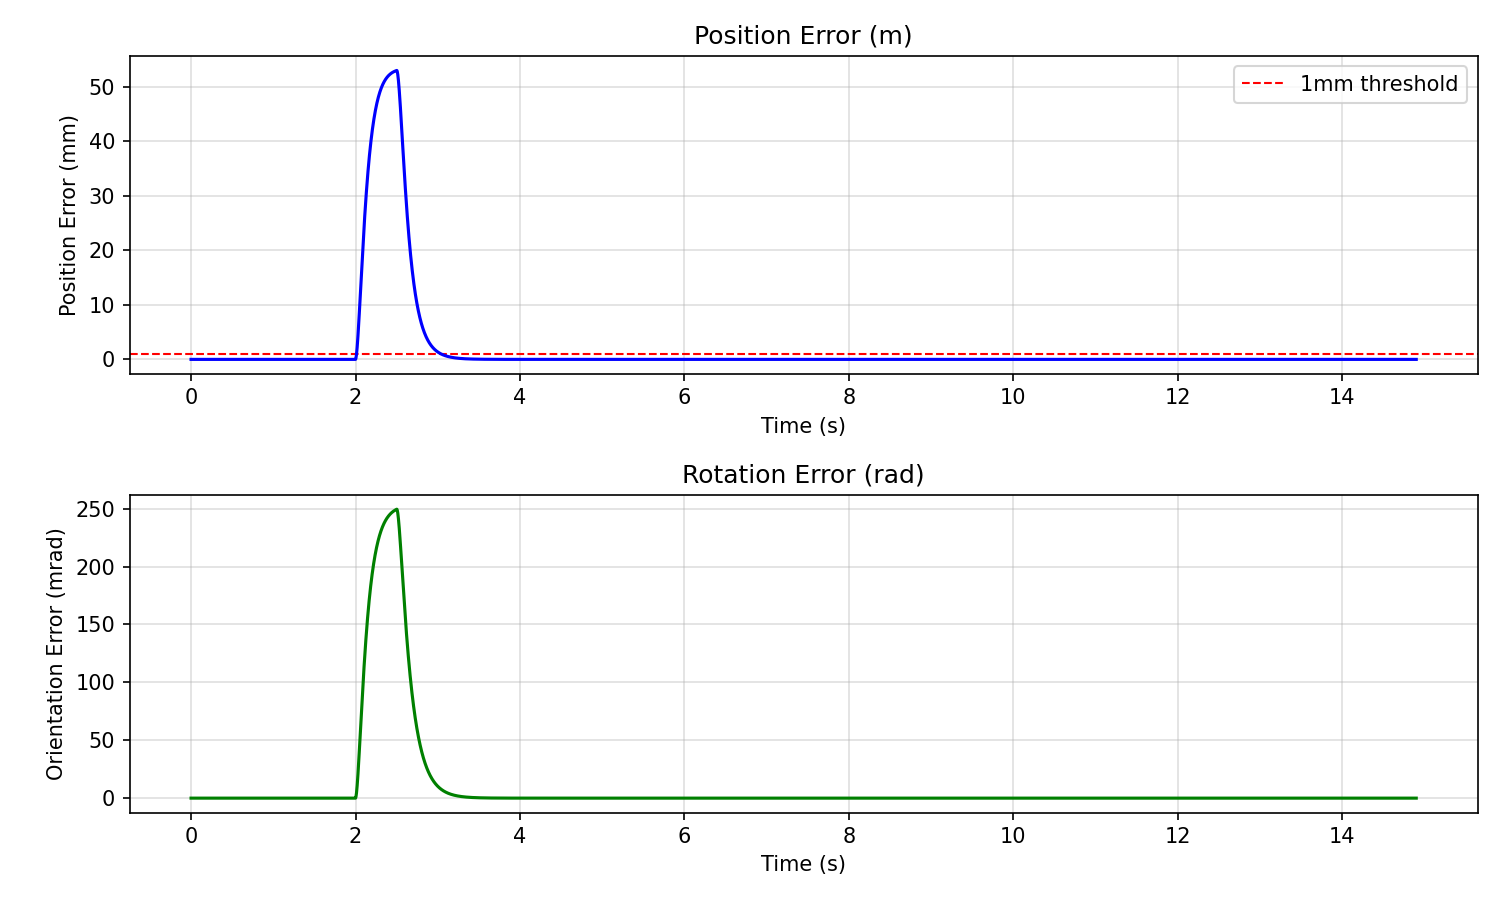
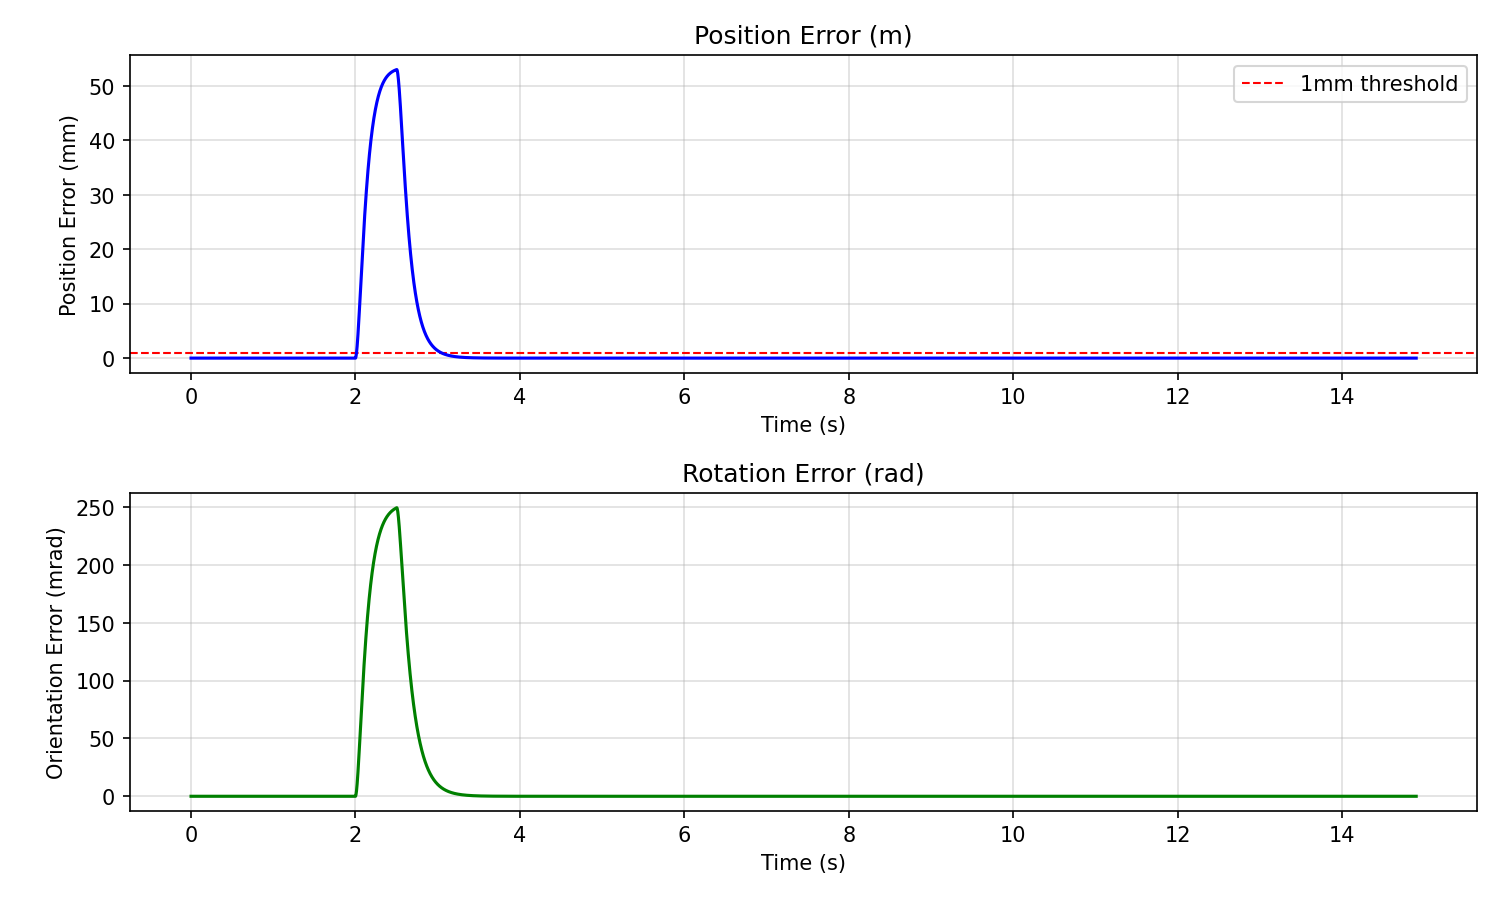
Rectified Impedance Controller variables

diff --git a/scripts/test_control_planning/test1_setpointtracking.py b/scripts/test_control_planning/test1_setpointtracking.py
@@ -6,7 +6,7 @@ import mujoco
 import mujoco.viewer
 from planning.fk import fk
 import matplotlib.pyplot as plt
-from control.CS_impedance_controller import Impedance_Controller
+from control.CS_impedance_controller import CS_Impedance_Controller
 
 MODEL_PATH = os.path.expanduser('~/mujoco_menagerie/franka_emika_panda/scene.xml')
 model = mujoco.MjModel.from_xml_path(MODEL_PATH)
@@ -42,7 +42,7 @@ Dp = np.diag([D,D,D])
 Kr = np.diag([K,K,K])
 Dr = np.diag([D,D,D])
 
-CONTROLLER = Impedance_Controller(Kp,Kr,Dp,Dr)
+CONTROLLER = CS_Impedance_Controller(Kp,Kr,Dp,Dr)
 
 # reset and initialize
 